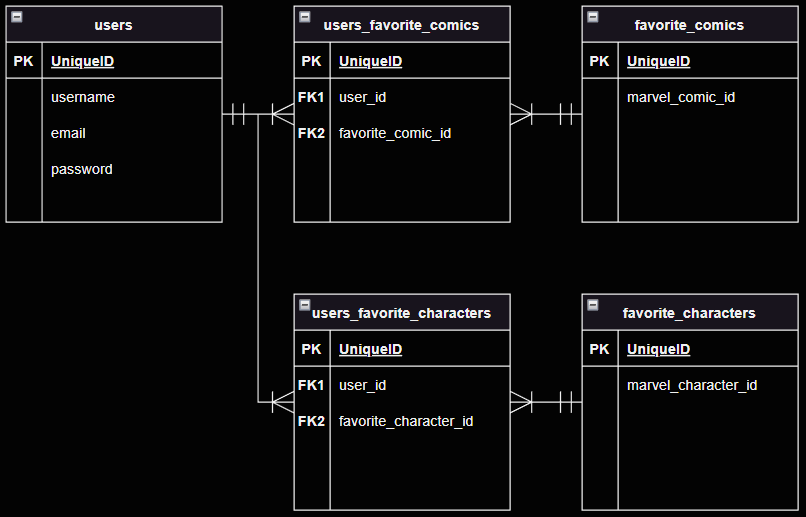
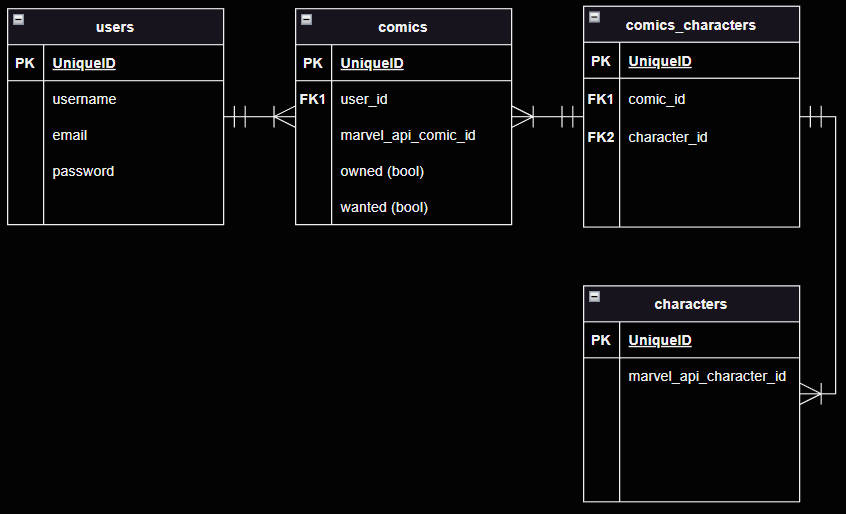
Update README with adjusted pitch

diff --git a/README.md b/README.md
@@ -14,29 +14,30 @@ I'll be using the Marvel comics API. Example query: `https://gateway.marvel.com:
 
 ## ERDs
 
-![ERD](ERD2.png)
+![ERD](ERD.png)
 
 # RESTful Route Chart
 
-| VERB   | URL                   | CRUD    | DESCRIPTION                                                          | VIEW        |
-| :----- | :-------------------- | :------ | :------------------------------------------------------------------- | :---------- |
-| GET    | /                     | Read    | Home View                                                            | Home        |
-|        |                       |         |                                                                      |             |
-| POST   | /users                | Create  | Add user data to db                                                  |             |
-| GET    | /users/new            | Read    | Display signup form                                                  | Signup Form |
-| GET    | /users/login          | Read    | Display login form                                                   | Login Form  |
-| POST   | /users/login          | Read    | Checks user credentials against db                                   |             |
-| GET    | /users/logout         | Read    | Logout user by clearing cookies                                      |             |
-| GET    | /users/profile        | Read    | Display user data                                                    | Profile     |
-| PUT    | /users/:id/           | Update  | Change user password                                                 |             |
-|        |                       |         |                                                                      |             |
-| GET    | /comics               | Read    | Main view of comics page with search                                 |             |
-| GET    | /comics/favorites     | Read    | List of currently logged in user's favorite comics                   |             |
-| POST   | /comics/:id/favorites | Create  | Adds selected comic to currently logged in user's favorites          |             |
-| DELETE | /comics/:id/favorites | Destroy | Removes selected comic from currently logged in user's favorites     |             |
-| GET    | /comics/wanted        | Read    | List of currently logged in user's wanted comics                     |             |
-| POST   | /comics/:id/wanted    | Create  | Adds selected comic to currently logged in user's wanted comics      |             |
-| DELETE | /comics/:id/wanted    | Destroy | Removes selected comic from currently logged in user's wanted comics |             |
+| VERB   | URL                     | CRUD    | DESCRIPTION                                                                  | VIEW        |
+| :----- | :---------------------- | :------ | :--------------------------------------------------------------------------- | :---------- | --- |
+| GET    | /                       | Read    | Home View                                                                    | Home        |
+|        |                         |         |                                                                              |             |
+| POST   | /users                  | Create  | Add user data to db                                                          |             |
+| GET    | /users/new              | Read    | Display signup form                                                          | Signup Form |
+| GET    | /users/login            | Read    | Display login form                                                           | Login Form  |
+| POST   | /users/login            | Read    | Checks user credentials against db                                           |             |
+| GET    | /users/logout           | Read    | Logout user by clearing cookies                                              |             |
+| GET    | /users/profile          | Read    | Display user data                                                            | Profile     |
+| PUT    | /users/                 | Update  | Change user password                                                         |             |
+| GET    | /comics                 | Read    | Main view of comics page with search                                         |             |
+| GET    | /comics/collection      | Read    | List of currently logged in user's comics (list of individual issues)        |             |
+| POST   | /comics/collection      | Create  | Adds selected comic to currently logged in user's collection                 |             |
+| PUT    | /comics/collection/:id/ | Update  | Moves selected comic from currently logged in user's wantlist to collection  |             |
+| DELETE | /comics/collection/:id/ | Destroy | Removes selected comic from currently logged in user's collection            |             |
+| GET    | /comics/wantlist        | Read    | List of currently logged in user's wanted comics (list of individual issues) |             |
+| POST   | /comics/wantlist        | Create  | Adds selected comic to currently logged in user's wantlist                   |             |
+| DELETE | /comics/wantlist/:id    | Destroy | Removes selected comic from currently logged in user's wantlist              |             |
+| GET    | /characters             | Read    | Main view of characters page with search                                     |             |     |
 
 ## Installation Instructions
 
@@ -47,8 +48,8 @@ I'll be using the Marvel comics API. Example query: `https://gateway.marvel.com:
 
 ## User Stories
 
-- _As a collector, I want to mark comics as 'owned' so that I can track what's in my collection._
-- _As a collector, I want to add comics to a wishlist so that I can see which ones I'm missing._
+- _As a collector, I want to add comics I have to a personal collection._
+- _As a collector, I want to add comics to a 'want list' so that I can see which ones I'm still aiming to collect._
 - _As an app user, I want to search for characters so that I can learn about new heroes and villains in the Marvel universe._
 
 ## MVP Goals
